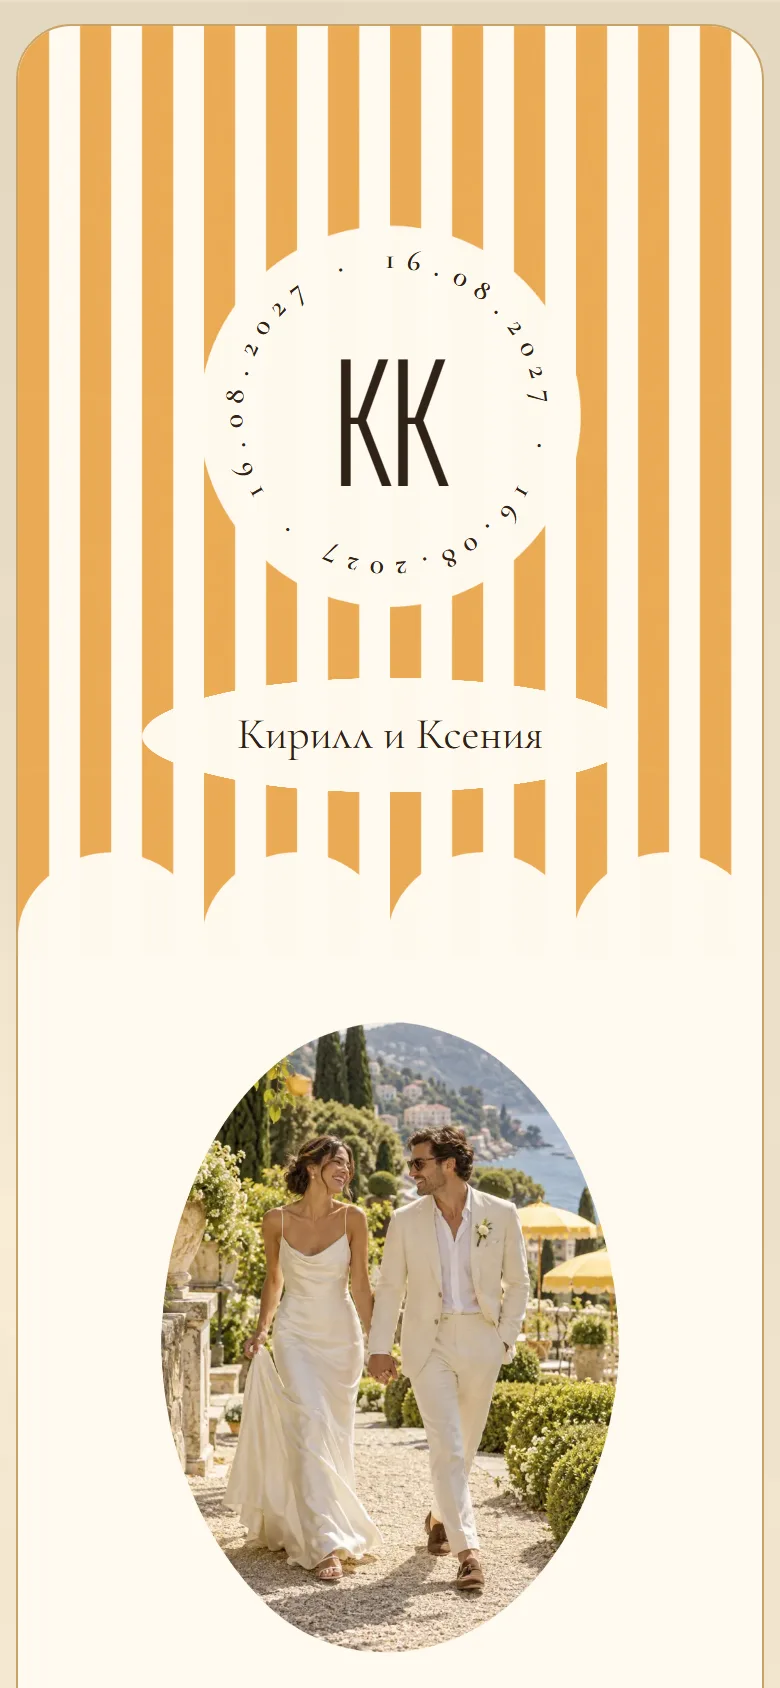
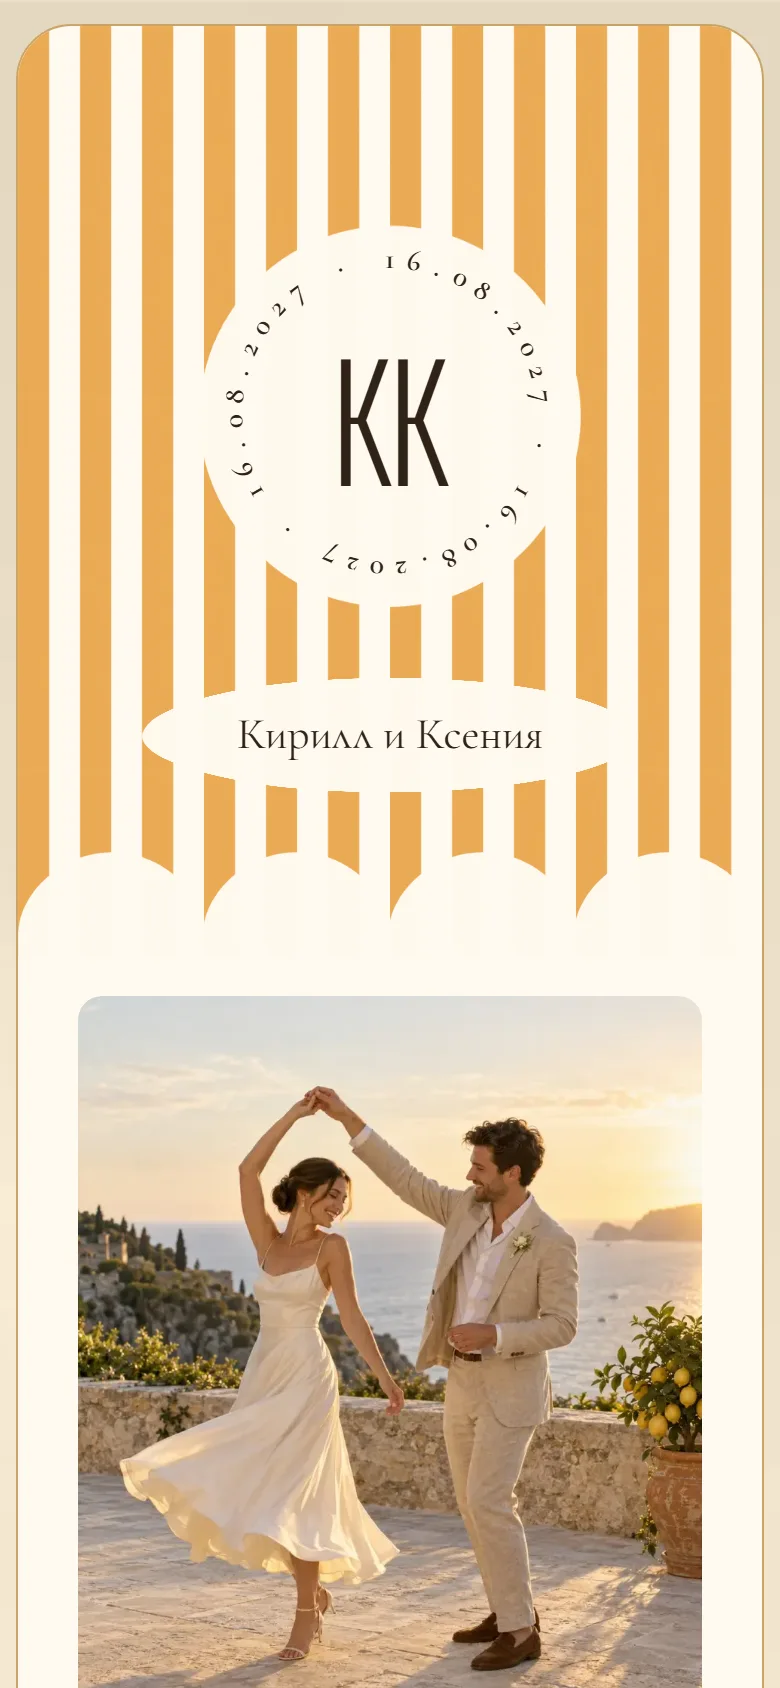
feat: animate Sol Letter and refresh couple photos and previews

diff --git a/frontend/src/invitation-templates/sol/template.module.css b/frontend/src/invitation-templates/sol/template.module.css
@@ -922,8 +922,8 @@
 .schedule li {
   position: relative;
   display: grid;
-  grid-template-columns: 60px minmax(0, 1fr);
-  gap: 32px;
+  grid-template-columns: 68px minmax(0, 1fr);
+  gap: 24px;
   padding: 0 0 32px;
   border: 0;
 }
@@ -942,6 +942,8 @@
 }
 .schedule time {
   font-family: var(--font-geist-sans), Arial, sans-serif;
+  white-space: nowrap;
+  overflow-wrap: normal;
   font-size: clamp(18px, 5cqw, 22px);
   font-weight: 500;
   line-height: 32px;
@@ -1123,4 +1125,244 @@
 .closing > p,
 .closing > time {
   color: #ffffff;
+}
+
+@media (prefers-reduced-motion: no-preference) {
+  .shell {
+    --sol-reveal-distance: 12px;
+  }
+  .shell[data-animate="on"] :is(figure, .schedule li)[data-reveal],
+  .shell[data-animate="on"]
+    section[data-reveal]
+    > :is(h2, p, time, .calendar, .venueDetails, .locationLabelFrame, .button),
+  .shell[data-animate="on"] section[data-reveal] .shared > :is(h2, p, a),
+  .shell[data-animate="on"] .dressCode[data-reveal] .shared li,
+  .shell[data-animate="on"] .wishes[data-reveal] :is(.wishesFirst, .envelope, .gift),
+  .shell[data-animate="on"] .greeting[data-reveal] .arrow {
+    opacity: 0;
+    translate: 0 var(--sol-reveal-distance);
+    transition:
+      opacity 550ms ease,
+      translate 550ms cubic-bezier(0.22, 1, 0.36, 1);
+  }
+  .shell[data-animate="on"] :is(figure, .schedule li)[data-revealed],
+  .shell[data-animate="on"]
+    section[data-revealed]
+    > :is(h2, p, time, .calendar, .venueDetails, .locationLabelFrame, .button),
+  .shell[data-animate="on"] section[data-revealed] .shared > :is(h2, p, a),
+  .shell[data-animate="on"] .dressCode[data-revealed] .shared li,
+  .shell[data-animate="on"] .wishes[data-revealed] :is(.wishesFirst, .envelope, .gift),
+  .shell[data-animate="on"] .greeting[data-revealed] .arrow {
+    opacity: 1;
+    translate: 0 0;
+  }
+  .shell[data-animate="on"] section[data-reveal] > p,
+  .shell[data-animate="on"] section[data-reveal] .shared > p {
+    transition-delay: 100ms;
+  }
+  .shell[data-animate="on"] .closing[data-reveal] > p {
+    transition-delay: 150ms;
+  }
+  .shell[data-animate="on"] .closing[data-reveal] > h2 {
+    transition-delay: 250ms;
+  }
+  .shell[data-animate="on"] .closing[data-reveal] > time {
+    transition-delay: 350ms;
+  }
+  .shell[data-animate="on"] .dressCode .shared li:nth-child(2) {
+    transition-delay: 60ms;
+  }
+  .shell[data-animate="on"] .dressCode .shared li:nth-child(3) {
+    transition-delay: 120ms;
+  }
+  .shell[data-animate="on"] .dressCode .shared li:nth-child(4) {
+    transition-delay: 180ms;
+  }
+  .shell[data-animate="on"] .dressCode .shared li:nth-child(n + 5) {
+    transition-delay: 240ms;
+  }
+  .shell[data-animate="on"] .wishes .envelope,
+  .shell[data-animate="on"] .wishes .gift {
+    rotate: -6deg;
+    transition:
+      opacity 550ms ease 180ms,
+      translate 550ms ease 180ms,
+      rotate 650ms ease 180ms;
+  }
+  .shell[data-animate="on"] .wishes[data-revealed] :is(.envelope, .gift) {
+    rotate: 0deg;
+  }
+  .shell[data-animate="on"] .hero .stripeBody {
+    animation: sol-stripes 700ms ease both;
+  }
+  .shell[data-animate="on"] .hero .monogram {
+    animation: sol-seal 650ms 180ms ease both;
+  }
+  .shell[data-animate="on"] .hero .heroNames {
+    animation: sol-enter 550ms 350ms ease both;
+  }
+  .shell .form :is(input, label, button) {
+    transition:
+      background-color 180ms ease,
+      border-color 180ms ease,
+      color 180ms ease;
+  }
+}
+@media (max-width: 430px) {
+  .shell {
+    --sol-reveal-distance: 8px;
+  }
+}
+@keyframes sol-stripes {
+  from {
+    opacity: 0;
+  }
+  to {
+    opacity: 1;
+  }
+}
+@keyframes sol-seal {
+  from {
+    opacity: 0;
+    scale: 0.96;
+  }
+  to {
+    opacity: 1;
+    scale: 1;
+  }
+}
+@keyframes sol-enter {
+  from {
+    opacity: 0;
+    translate: 0 8px;
+  }
+  to {
+    opacity: 1;
+    translate: 0 0;
+  }
+}
+
+@media (prefers-reduced-motion: no-preference) {
+  .shell[data-animate="on"] .hero .stripeBody {
+    transform-origin: top;
+    animation: sol-curtain 1100ms cubic-bezier(0.22, 1, 0.36, 1) both;
+  }
+  .shell[data-animate="on"] .hero .monogram {
+    animation: sol-stamp 1000ms 250ms cubic-bezier(0.22, 1, 0.36, 1) both;
+  }
+  .shell[data-animate="on"] .hero .heroNames {
+    animation: sol-ribbon 800ms 600ms cubic-bezier(0.22, 1, 0.36, 1) both;
+  }
+  .shell[data-animate="on"] figure[data-reveal] {
+    clip-path: inset(0 0 24% 0 round 12px);
+    transition:
+      opacity 700ms ease,
+      translate 900ms ease,
+      clip-path 1100ms cubic-bezier(0.22, 1, 0.36, 1);
+  }
+  .shell[data-animate="on"] figure[data-revealed] {
+    clip-path: inset(0 round 12px);
+  }
+  .shell[data-animate="on"] figure[data-reveal] img {
+    scale: 1.06;
+    transition: scale 1400ms cubic-bezier(0.22, 1, 0.36, 1);
+  }
+  .shell[data-animate="on"] figure[data-revealed] img {
+    scale: 1;
+  }
+  .shell[data-animate="on"] .sunny[data-reveal] .schedule::before {
+    scale: 1 0;
+    transform-origin: top;
+    transition: scale 1300ms 150ms cubic-bezier(0.22, 1, 0.36, 1);
+  }
+  .shell[data-animate="on"] .sunny[data-revealed] .schedule::before {
+    scale: 1;
+  }
+  .shell[data-animate="on"] .schedule li[data-reveal]::before {
+    scale: 0;
+    transition: scale 650ms 120ms cubic-bezier(0.34, 1.56, 0.64, 1);
+  }
+  .shell[data-animate="on"] .schedule li[data-revealed]::before {
+    scale: 1;
+  }
+  .shell[data-animate="on"] .dressCode[data-reveal] .shared li {
+    scale: 0.78;
+    transition-property: opacity, translate, scale;
+    transition-duration: 650ms;
+    transition-timing-function: cubic-bezier(0.22, 1, 0.36, 1);
+  }
+  .shell[data-animate="on"] .dressCode[data-revealed] .shared li {
+    scale: 1;
+  }
+  .shell[data-animate="on"] .wishes[data-revealed] .envelope {
+    animation: sol-doodle 1000ms 100ms both;
+  }
+  .shell[data-animate="on"] .wishes[data-revealed] .gift {
+    animation: sol-doodle 1000ms 280ms both;
+  }
+  .shell[data-animate="on"] .greeting[data-revealed] .arrow {
+    animation: sol-draw 1000ms 150ms both;
+  }
+  .shell :is(.button, .chat .shared a):active {
+    translate: 0 2px;
+  }
+}
+@keyframes sol-curtain {
+  from {
+    opacity: 0;
+    transform: scaleY(0.7);
+  }
+  to {
+    opacity: 1;
+    transform: scaleY(1);
+  }
+}
+@keyframes sol-stamp {
+  0% {
+    opacity: 0;
+    scale: 1.16;
+    rotate: -7deg;
+  }
+  65% {
+    opacity: 1;
+    scale: 0.98;
+    rotate: 1deg;
+  }
+  100% {
+    opacity: 1;
+    scale: 1;
+    rotate: 0deg;
+  }
+}
+@keyframes sol-ribbon {
+  from {
+    opacity: 0;
+    clip-path: inset(0 50%);
+  }
+  to {
+    opacity: 1;
+    clip-path: inset(0);
+  }
+}
+@keyframes sol-doodle {
+  0% {
+    rotate: -12deg;
+    scale: 0.85;
+  }
+  60% {
+    rotate: 5deg;
+    scale: 1.04;
+  }
+  100% {
+    rotate: 0deg;
+    scale: 1;
+  }
+}
+@keyframes sol-draw {
+  from {
+    clip-path: inset(0 0 100% 0);
+  }
+  to {
+    clip-path: inset(0);
+  }
 }

diff --git a/frontend/src/invitation-templates/sol/template.tsx b/frontend/src/invitation-templates/sol/template.tsx
@@ -32,7 +32,7 @@ function CircularText({ text, className }: { text: string; className?: string })
 
 function Photo({ src, alt, className }: { src: string; alt: string; className?: string }) {
   return (
-    <figure className={className}>
+    <figure className={className} data-reveal>
       <Image
         src={src}
         alt={alt}
@@ -71,7 +71,7 @@ export default function SolTemplate({
       <div className={styles.scene} style={inviteVars}>
         <article className={styles.shell} style={inviteVars} ref={ref}>
           <section data-invite-section="hero">
-            <div className={styles.hero}>
+            <div className={styles.hero} data-reveal>
               <div className={styles.stripeBody} aria-hidden />
               <div className={styles.stripeEdge} aria-hidden />
               <div className={styles.monogram}>
@@ -146,7 +146,7 @@ export default function SolTemplate({
               <h2>Этот день</h2>
               <ol className={styles.schedule}>
                 {invite.schedule.map((item, index) => (
-                  <li key={index}>
+                  <li key={index} data-reveal>
                     <time>{item.time}</time>
                     <div>
                       <h3>{item.title}</h3>

diff --git a/frontend/src/components/template-card/template-card-carousel.tsx b/frontend/src/components/template-card/template-card-carousel.tsx
@@ -102,7 +102,7 @@ export default function TemplateCardCarousel({
                         fill
                         loading={eagerImage && paletteIndex === 0 ? "eager" : undefined}
                         sizes={imageSizes}
-                        src={`/images/templates/${template.id}/${palette.id}.webp?v=${template.id === "villa-amore" ? "20261004-2" : "20260830-1"}`}
+                        src={`/images/templates/${template.id}/${palette.id}.webp?v=${template.id === "sol-letter" ? "20261017-2" : template.id === "villa-amore" ? "20261004-2" : "20260830-1"}`}
                       />
                     ) : null}
                   </div>

diff --git a/packages/shared/dist/invite-template-catalog.js b/packages/shared/dist/invite-template-catalog.js
@@ -1129,7 +1129,7 @@ exports.inviteTemplateCatalog = [
         defaultPaletteId: "sol-yellow",
         recommendedPaletteIds: ["sol-yellow", "sol-honey", "sol-rose", "sol-peach", "sol-lavender", "sol-sky", "sol-sage", "sol-olive", "sol-dusty-rose", "sol-linen"],
         tags: ["лето", "типографика"],
-        screenshot: "/images/templates/sol-letter-mobile.webp",
+        screenshot: "/images/templates/sol-letter-mobile.webp?v=20261017-2",
         preview: { background: "#fff8da", surface: "#fffff8", ink: "#181810", accent: "#E6B800" },
         editorPreset: {
             bride: "Ксения",

diff --git a/packages/shared/src/invite-template-catalog.ts b/packages/shared/src/invite-template-catalog.ts
@@ -1260,7 +1260,7 @@ export const inviteTemplateCatalog: InviteTemplateDefinition[] = [
     defaultPaletteId: "sol-yellow",
     recommendedPaletteIds: ["sol-yellow","sol-honey","sol-rose","sol-peach","sol-lavender","sol-sky","sol-sage","sol-olive","sol-dusty-rose","sol-linen"],
     tags: ["лето", "типографика"],
-    screenshot: "/images/templates/sol-letter-mobile.webp",
+    screenshot: "/images/templates/sol-letter-mobile.webp?v=20261017-2",
     preview: { background: "#fff8da", surface: "#fffff8", ink: "#181810", accent: "#E6B800" },
     editorPreset: {
       bride: "Ксения",

diff --git a/frontend/src/lib/invite-theme.ts b/frontend/src/lib/invite-theme.ts
@@ -156,8 +156,8 @@ export const laceImages = {
 } as const;
 
 export const solImages = {
-  cover: "/images/sol-letter-cover.webp",
-  portrait: "/images/sol-letter-portrait.webp",
+  cover: "/images/sol-letter-cover-v2.webp",
+  portrait: "/images/sol-letter-portrait-v2.webp",
   venue: "/images/sol-letter-venue.webp",
 } as const;
 

diff --git a/frontend/next.config.ts b/frontend/next.config.ts
@@ -42,6 +42,10 @@ const nextConfig: NextConfig = {
     qualities: [75, 90],
     localPatterns: [
       {
+        pathname: "/images/templates/**",
+        search: "?v=20261017-2",
+      },
+      {
         pathname: "/images/**",
         search: "",
       },
